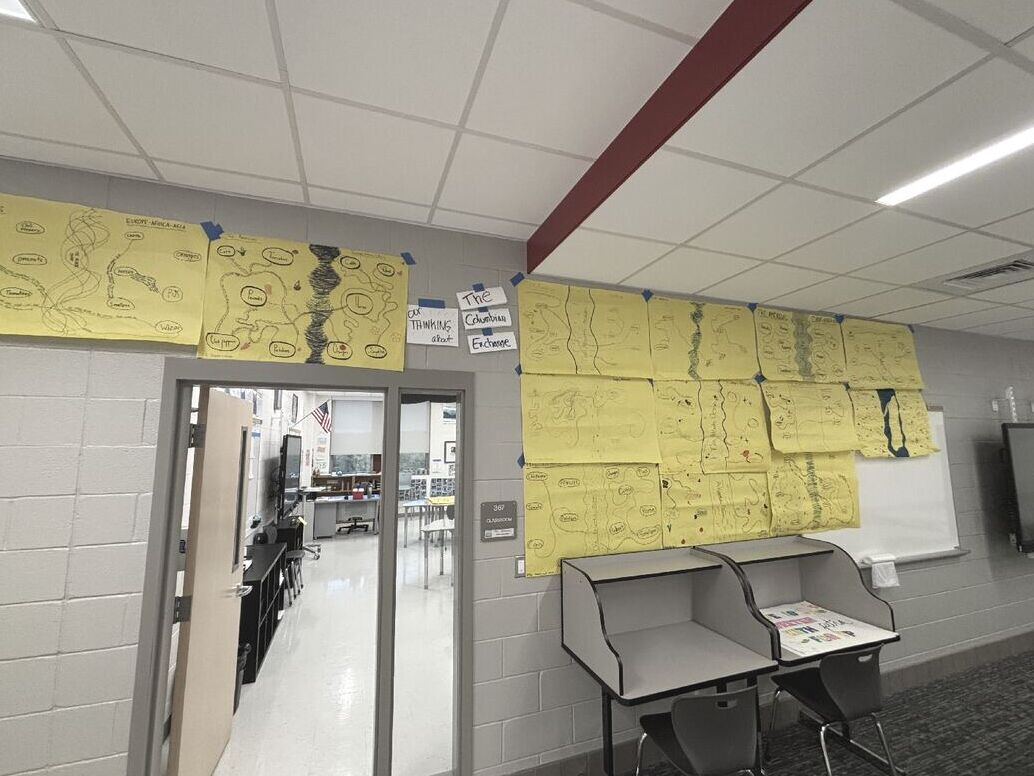
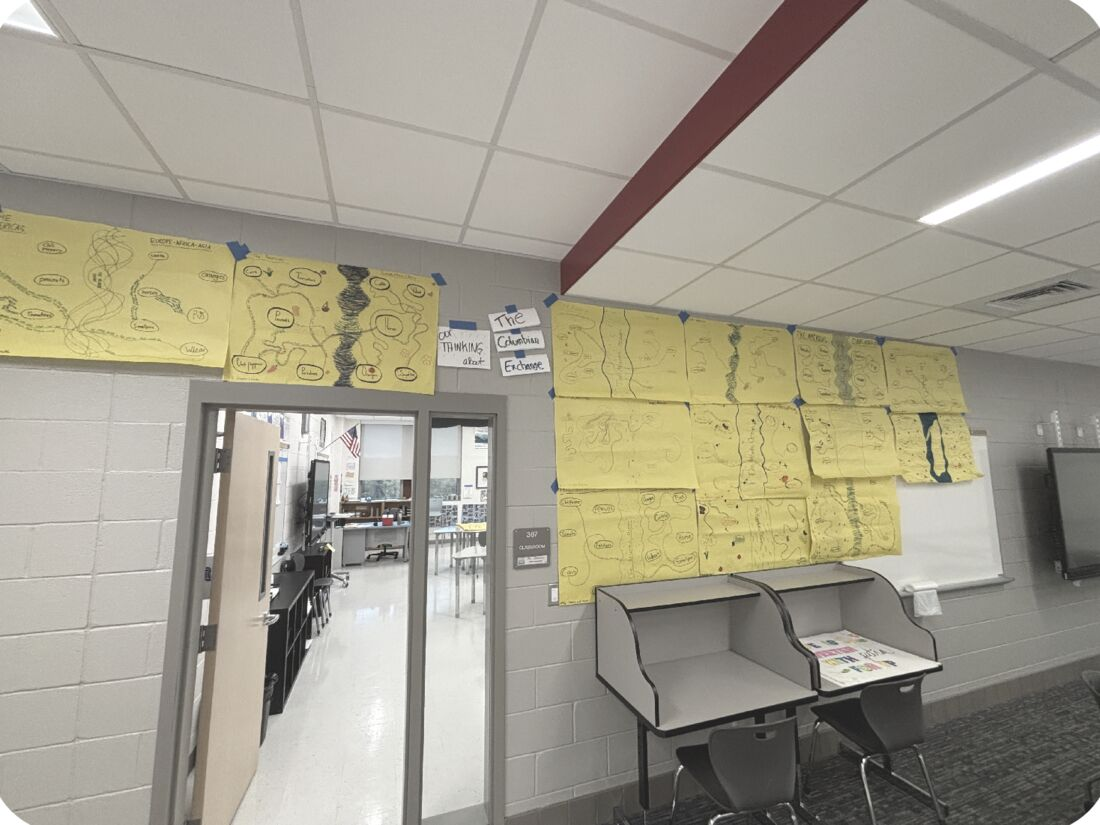
Add past dates and earlier weeks sections
Past dates collapse under Coming up (optionally limited to the current
unit via unit.starts). The two newest weekly posts show in full; older
weeks fold into an Earlier weeks list. Photos re-exported without the
black corners.

Claude-Session: https://claude.ai/code/session_01SXig3MYYZ35NC4ouGKYrLc

diff --git a/2026-27/index.html b/2026-27/index.html
@@ -155,6 +155,25 @@ button { font: inherit; color: inherit; }
 .ask q { font-size: 1.15rem; font-weight: 600; line-height: 1.4; quotes: "\201C" "\201D"; }
 .older { border-top: 1px solid var(--line); padding-top: 22px; }
 
+/* Past dates and earlier weeks */
+.fold { background: transparent; box-shadow: none; padding: 0; }
+.fold > summary {
+  padding: 10px 14px; border-radius: 12px; background: var(--panel-soft);
+  font-size: .92rem; font-weight: 600; color: var(--ink-2);
+}
+.fold[open] > summary { margin-bottom: 8px; }
+.fold .row { opacity: .8; }
+.fold .list { background: transparent; padding: 0; }
+.earlier { display: grid; gap: 10px; border-top: 1px solid var(--line); padding-top: 22px; }
+.earlier-list { display: grid; gap: 8px; }
+.week > summary { display: flex; flex-wrap: wrap; gap: 2px 10px; align-items: baseline; }
+.week > summary .wk { font-size: .78rem; font-weight: 600; letter-spacing: .06em; text-transform: uppercase; color: var(--sage-ink); }
+.week > summary .ttl { flex: 1 1 200px; min-width: 0; }
+.week > summary::after { margin-left: auto; }
+.week .post { padding-bottom: 14px; }
+.week .post-card .eyebrow, .week .post-card h3 { display: none; }
+.week .post p { padding-bottom: 0; color: inherit; font-size: inherit; }
+
 /* Good to know */
 .faq { display: grid; gap: 8px; }
 details { background: var(--panel-soft); border-radius: 14px; padding: 2px 16px; box-shadow: var(--shadow); }
@@ -241,6 +260,10 @@ details p { padding-bottom: 14px; font-size: .93rem; color: var(--ink-2); max-wi
       <p class="sub">Assessments and deadlines. Dates can shift, and this list always has the current ones.</p>
     </div>
     <div class="list" id="dates"></div>
+    <details class="fold" id="past" hidden>
+      <summary id="past-sum">Past dates</summary>
+      <div class="list" id="past-list"></div>
+    </details>
     <p class="unit sub" id="unit"></p>
   </section>
 
@@ -324,46 +347,59 @@ details p { padding-bottom: 14px; font-size: .93rem; color: var(--ink-2); max-wi
     return { a: day(item.a), b: day(item.b), same: item.a === item.b };
   }
 
+  function buildRow({ it, d, mine }) {
+    const row = el("div", "row");
+    const dateCol = el("div", "date");
+    const isToday = mine.some((x) => diff(x) === 0);
+    if (isToday) row.classList.add("is-today");
+    if (choice === "both" && !d.same) {
+      [["A", d.a], ["B", d.b]].forEach(([lab, x]) => {
+        const line = el("div", "both");
+        const txt = lab + " · " + dow(x) + " " + nd(x);
+        if (diff(x) < 0) line.append(el("s", null, txt));
+        else line.append(el("span", null, lab + " · "), document.createTextNode(dow(x) + " " + nd(x)));
+        dateCol.append(line);
+      });
+    } else {
+      const x = mine[0];
+      dateCol.append(el("span", "dow", dow(x)), el("span", "md", md(x)));
+    }
+    const body = el("div", "row-body");
+    const title = el("div", "row-title");
+    title.append(el("span", null, it.title), el("span", "tag " + it.type, typeLabel[it.type] || it.type));
+    if (isToday) title.append(el("span", "badge-today", "Today"));
+    body.append(title);
+    if (it.note) body.append(el("p", "row-note", it.note));
+    row.append(dateCol, body);
+    return row;
+  }
+
   function render() {
     document.querySelectorAll(".seg button").forEach((b) => b.setAttribute("aria-pressed", String(b.dataset.day === choice)));
 
-    // Build the visible list for this choice.
-    const items = C.dates.map((it) => {
+    // Sort every date into upcoming or past for this choice.
+    const all = C.dates.map((it) => {
       const d = datesFor(it);
       const mine = choice === "a" ? [d.a] : choice === "b" ? [d.b] : d.same ? [d.a] : [d.a, d.b];
       const upcoming = mine.filter((x) => diff(x) >= 0);
-      return { it, d, mine, upcoming, sortKey: upcoming.length ? Math.min(...upcoming.map(Number)) : Infinity };
-    }).filter((x) => x.upcoming.length).sort((x, y) => x.sortKey - y.sortKey);
+      return { it, d, mine, upcoming,
+        sortKey: upcoming.length ? Math.min(...upcoming.map(Number)) : Infinity,
+        last: Math.max(...mine.map(Number)) };
+    });
+    const items = all.filter((x) => x.upcoming.length).sort((x, y) => x.sortKey - y.sortKey);
+    const unitStart = C.unit && C.unit.starts ? day(C.unit.starts) : null;
+    const past = all.filter((x) => !x.upcoming.length && (!unitStart || x.last >= unitStart))
+      .sort((x, y) => y.last - x.last);
 
     const list = $("dates");
     list.replaceChildren();
     if (!items.length) list.append(el("p", "empty", "Nothing scheduled right now."));
-    items.forEach(({ it, d, mine }) => {
-      const row = el("div", "row");
-      const dateCol = el("div", "date");
-      const isToday = mine.some((x) => diff(x) === 0);
-      if (isToday) row.classList.add("is-today");
-      if (choice === "both" && !d.same) {
-        [["A", d.a], ["B", d.b]].forEach(([lab, x]) => {
-          const line = el("div", "both");
-          const txt = lab + " · " + dow(x) + " " + nd(x);
-          if (diff(x) < 0) { const s = el("s", null, txt); line.append(s); }
-          else { line.append(el("span", null, lab + " · "), document.createTextNode(dow(x) + " " + nd(x))); }
-          dateCol.append(line);
-        });
-      } else {
-        const x = mine[0];
-        dateCol.append(el("span", "dow", dow(x)), el("span", "md", md(x)));
-      }
-      const body = el("div", "row-body");
-      const title = el("div", "row-title");
-      title.append(el("span", null, it.title), el("span", "tag " + it.type, typeLabel[it.type] || it.type));
-      if (isToday) title.append(el("span", "badge-today", "Today"));
-      body.append(title);
-      if (it.note) body.append(el("p", "row-note", it.note));
-      row.append(dateCol, body);
-      list.append(row);
-    });
+    items.forEach((x) => list.append(buildRow(x)));
+
+    const pastBox = $("past");
+    $("past-list").replaceChildren(...past.map(buildRow));
+    $("past-sum").textContent = (unitStart ? "Past dates this unit" : "Past dates") + " (" + past.length + ")";
+    pastBox.hidden = !past.length;
 
     // Next up: first upcoming item that isn't a day off.
     const next = items.find((x) => x.it.type !== "no-school") || items[0];
@@ -389,12 +425,14 @@ details p { padding-bottom: 14px; font-size: .93rem; color: var(--ink-2); max-wi
   // Posts
   const thisWeek = (() => { const d = new Date(TODAY); d.setDate(d.getDate() - ((d.getDay() + 6) % 7)); return d; })();
   const posts = $("posts");
-  C.posts.forEach((p, i) => {
+  const SHOW_IN_FULL = 2; // how many recent weeks show open; older ones fold into "Earlier weeks"
+  const weekLabel = (wk) => diff(wk) === diff(thisWeek) ? "This week · " + md(wk) : "Week of " + md(wk);
+
+  function buildPost(p, cls) {
     const wk = day(p.week);
-    const art = el("article", "post" + (i > 0 ? " older" : ""));
+    const art = el("article", cls);
     const card = el("div", "post-card");
-    const label = diff(wk) === diff(thisWeek) ? "This week · " + md(wk) : "Week of " + md(wk);
-    card.append(el("span", "eyebrow", label), el("h3", null, p.title));
+    card.append(el("span", "eyebrow", weekLabel(wk)), el("h3", null, p.title));
     p.body.forEach((t) => card.append(el("p", null, t)));
     art.append(card);
     if (p.photos && p.photos.length) {
@@ -418,8 +456,28 @@ details p { padding-bottom: 14px; font-size: .93rem; color: var(--ink-2); max-wi
       ask.append(el("span", "eyebrow", "Ask your student at dinner"), el("q", null, p.ask));
       art.append(ask);
     }
-    posts.append(art);
-  });
+    return art;
+  }
+
+  C.posts.slice(0, SHOW_IN_FULL).forEach((p, i) => posts.append(buildPost(p, "post" + (i > 0 ? " older" : ""))));
+
+  const older = C.posts.slice(SHOW_IN_FULL);
+  if (older.length) {
+    const wrap = el("div", "earlier");
+    const head = el("div", "section-head");
+    head.append(el("h3", null, "Earlier weeks"), el("p", "sub", "Tap a week to open it."));
+    const listEl = el("div", "earlier-list");
+    older.forEach((p) => {
+      const det = el("details", "week");
+      det.id = "week-" + p.week;
+      const sum = el("summary");
+      sum.append(el("span", "wk", "Week of " + md(day(p.week))), el("span", "ttl", p.title));
+      det.append(sum, buildPost(p, "post"));
+      listEl.append(det);
+    });
+    wrap.append(head, listEl);
+    posts.append(wrap);
+  }
 
   // Good to know
   C.reminders.forEach((r, i) => {

diff --git a/2026-27/data.js b/2026-27/data.js
@@ -23,6 +23,9 @@ window.CLASS = {
   // What unit you're in right now.
   unit: {
     name: "Unit 3: European Exploration",
+    // First day of the unit. "Past dates" only shows dates from this unit.
+    // Leave it null to show every past date in the list below.
+    starts: null,
     ends: "2026-11-17",
     next: "Unit 4 starts the week of Nov 16, the last few days before Thanksgiving break."
   },
@@ -31,7 +34,7 @@ window.CLASS = {
   oneThing:
     "We're at the end of Unit 3, with a few assessments in the next week. Please try to have your student in class as much as possible. We prioritize collaborative assessments, so when students are out, they have to do them alone.",
 
-  // Upcoming dates. Past dates drop off the list on their own.
+  // Dates for the unit. Once a date passes it moves to the "Past dates" list.
   dates: [
     { type: "no-school",  title: "No school for Diwali", date: "2026-11-09" },
     { type: "formative",  title: "Model & Practice",
@@ -46,6 +49,7 @@ window.CLASS = {
   ],
 
   // Weekly posts, newest first. Photos live in the photos/ folder.
+  // The two newest show in full; older weeks fold into "Earlier weeks."
   posts: [
     {
       week: "2026-11-09",
